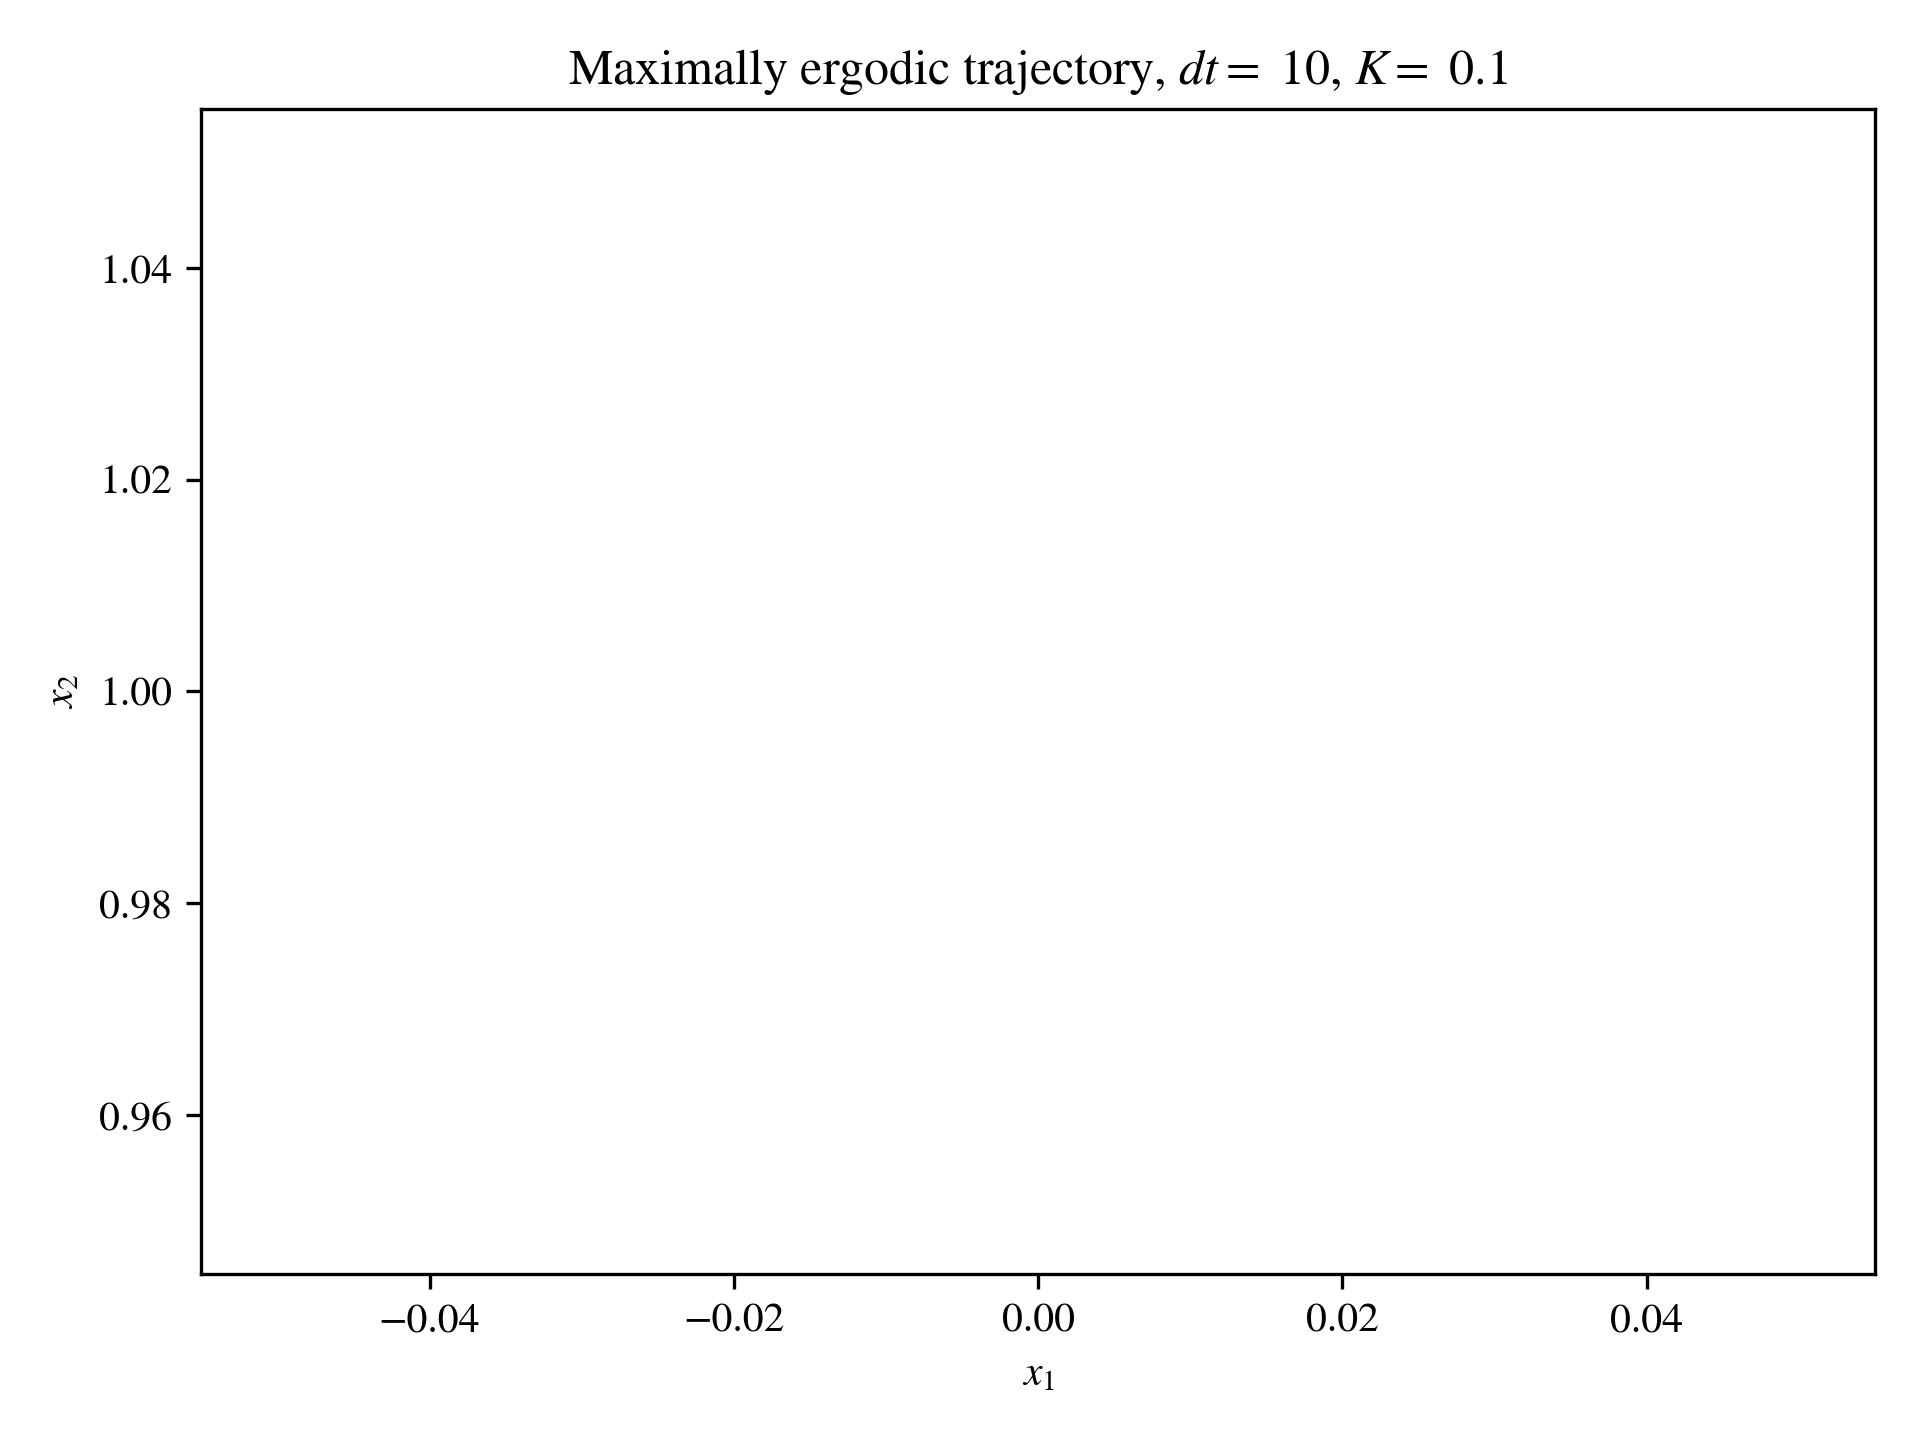
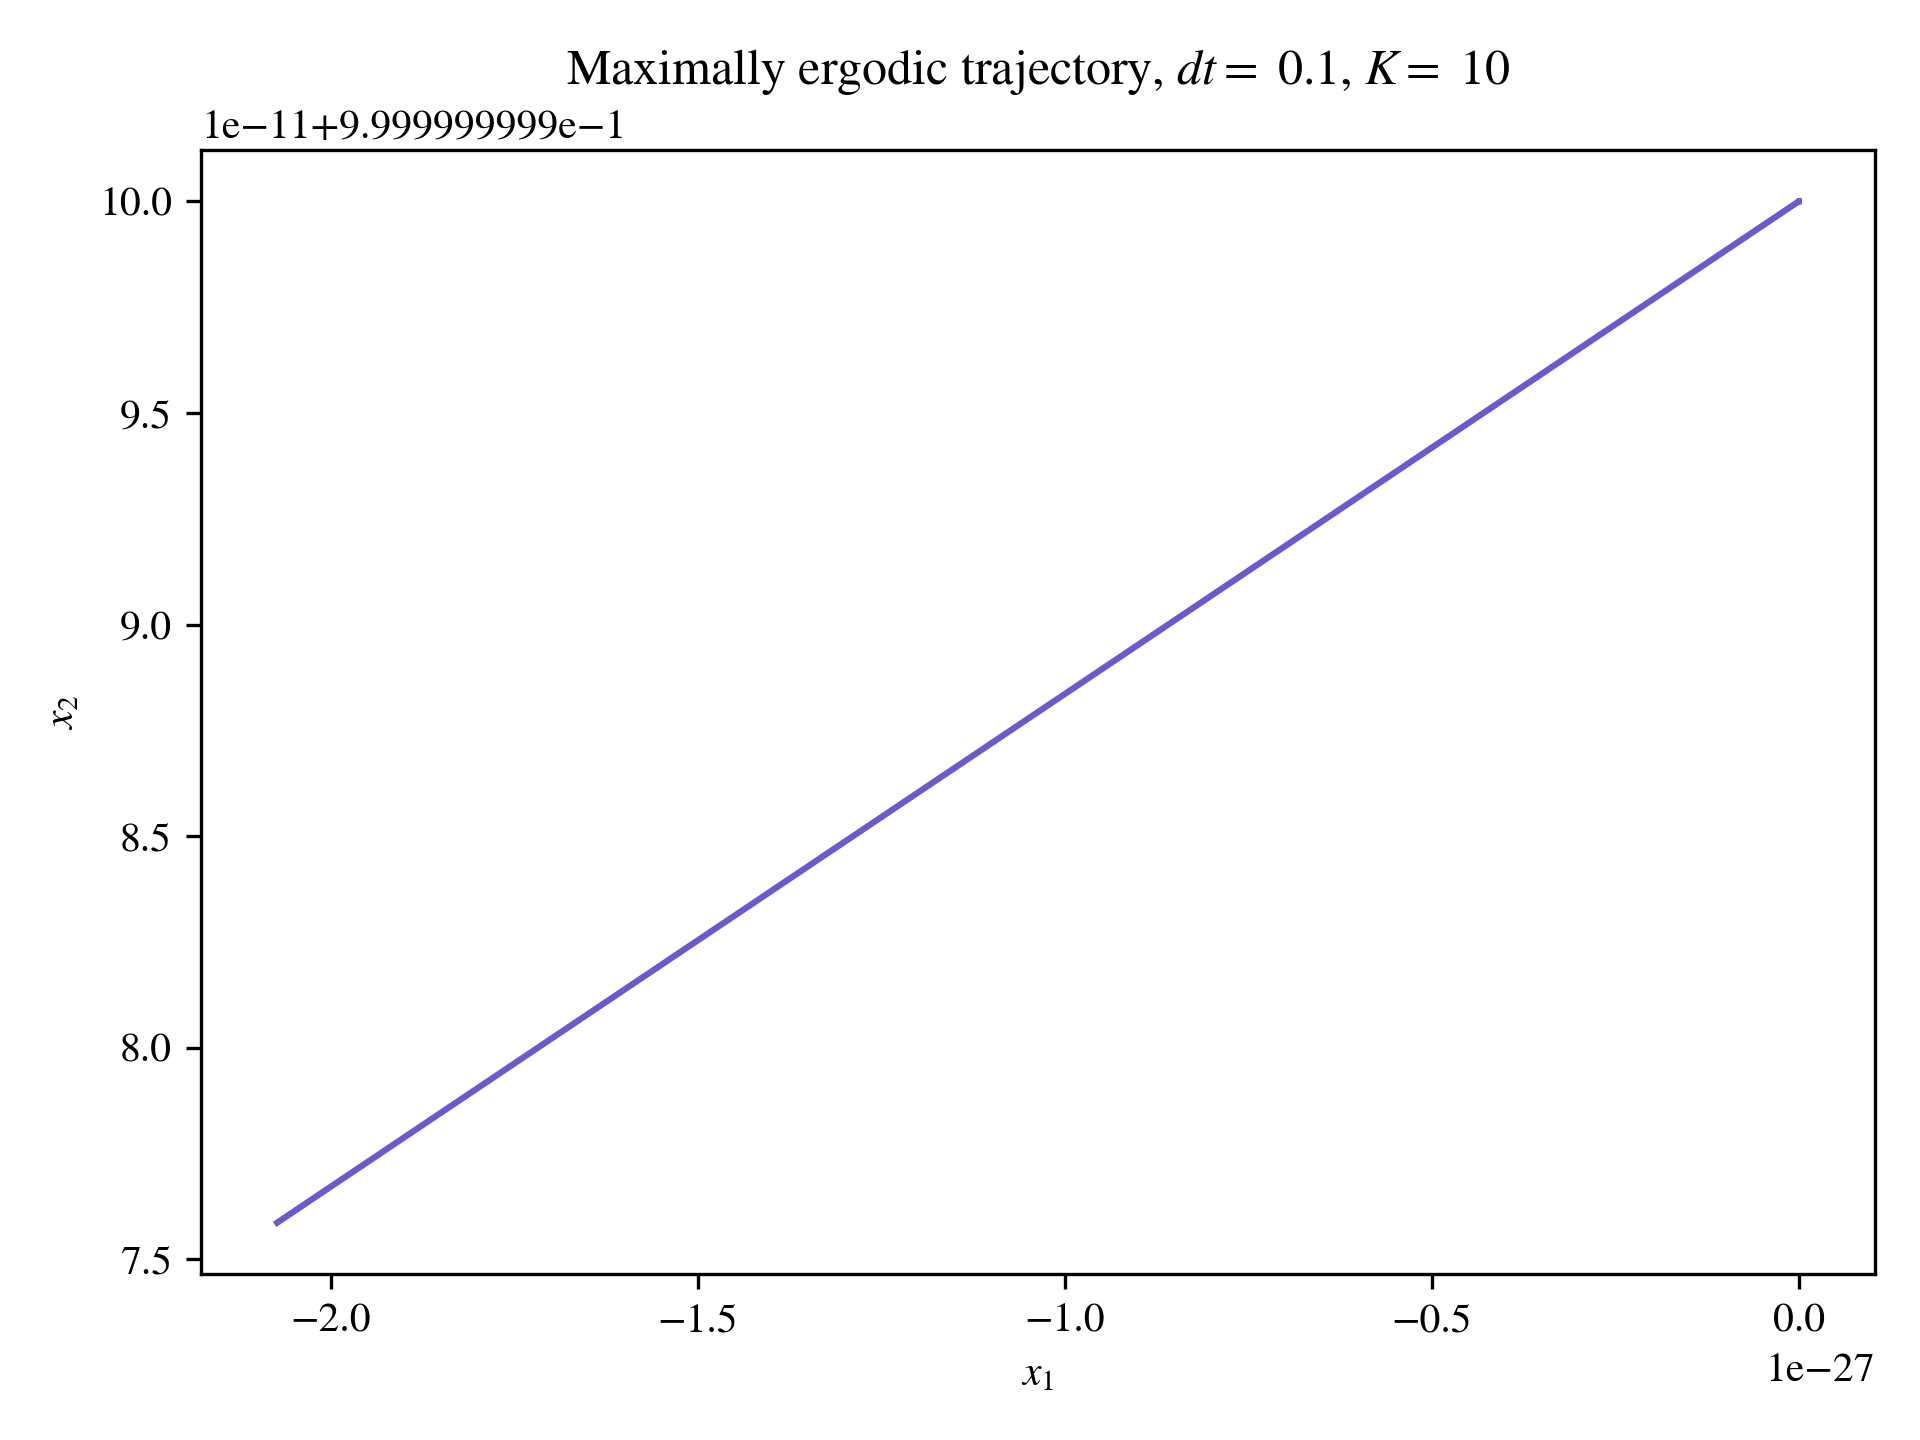
pipeline standing, converges to 0 in first iteration

diff --git a/HW5/HW5_1.py b/HW5/HW5_1.py
@@ -6,101 +6,194 @@ from scipy.integrate import dblquad
 plt.rcParams['mathtext.fontset'] = 'stix'
 plt.rcParams['font.family'] = 'STIXGeneral'
 
-def Phi(x):
-    mu = np.array([0, 0])
-    Sig = np.diag([2, 2])
-    return np.linalg.det(2*np.pi*Sig)**(-1/2) * np.exp(-1/2 * np.dot(np.dot((x-mu).T, np.linalg.inv(Sig)), (x-mu)))
+### Dynamics ###
+def dynamics(x0, u_erg):
+    x = np.zeros((n,2))
+    x[0] = x0
+    for i in range(n-1):
+        x[i+1] = x[i] + dt * u_erg[i]
+    return x
 
 
-def get_Fk(x, k, lb, ub):
-    hk = 1.0 # TODO: needed for HW5 but not HW4 ?
+### Cost Function ###
+def J(x, u):
+    sum = 0
+    for k1 in range(K):
+        for k2 in range(K):
+            k = np.array([k1, k2])
+            Lambda = (1 + np.linalg.norm(k)**2)**(-s)
+            intg_F = 0
+            for i in range(n):
+                intg_F += dt * get_Fk(x[i], k)
+            sum += Lambda * (intg_F/T - Phik_list[k1, k2]) **2
+    intg_u = 0
+    for i in range(n):
+        intg_u += dt * (u[i].T @ R @ u[i])
+    return q * sum + intg_u
+
+def DJ(x, u, zeta):
+    intg = 0
+    for i in range(n):
+        intg += dt * ((a(x, i)).T @ zeta[i,:2] + (b(u[i])).T @ zeta[i,2:])
+    return intg
+
+
+def a(x, i):
+    sum = 0
+    for k1 in range(K):
+        for k2 in range(K):
+            k = np.array([k1, k2])
+            Lambda = (1 + np.linalg.norm(k)**2)**(-s)
+            intg_F = 0
+            intg_DF = 0
+            for j in range(n):
+                intg_F += dt * get_Fk(x[j], k)
+            sum += 2 * Lambda * (intg_F/T - Phik_list[k1, k2]) * get_DFk(x[i], k)/T
+    return (q * sum).T
+
+def b(ui):
+    return (ui.T @ R).T
+
+def get_zeta(x, u):
+    A = np.array([[0, 0],[0, 0]]) # D1 f(x,u)
+    B = np.array([[1, 0],[0, 1]]) # D2 f(x,u)
+
+    zeta = np.zeros((n,4))
+    P = np.zeros((n,2,2)) # Time, Matrix
+    r = np.zeros((n,2)) # Time, Vector
+    P[n-1] = P_1
+    r[n-1] = [0, 0]
+
+    i = n-1
+    while i > 0:
+        P_dot = -(P[i] @ A) + A.T @ P[i] + P[i] @ B @ np.linalg.inv(R) @ B.T @ P[i] - Q
+        # print("P_dot=", P_dot)
+        r_dot = -(A - B @ np.linalg.inv(R) @ B.T @ P[i]).T @ r[i] - a(x, i) + P[i] @ B @ np.linalg.inv(R) @ b(u[i])
+        # print("r_dot=", r_dot)
+        P[i-1] = P[i] - dt*P_dot
+        r[i-1] = r[i] - dt*r_dot
+        
+        i -= 1
+
+    zeta[0, :2] = [0, 0]
+    for i in range(n-1):
+        zeta[i, 2:] = np.linalg.inv(R) @ B.T @ P[i] @ zeta[i, :2] - np.linalg.inv(R) @ B.T @ r[i] - np.linalg.inv(R) @ b(u[i])
+        zeta[i+1, :2] = zeta[i, :2] + dt*(A @ zeta[i, :2] + B @ zeta[i, 2:]) # A = zeros()
+    return zeta
+
+
+### Ergodicity ###
+def get_Fk(x, k):
+    hk = hk_list[k[0], k[1]]
     prod = 1.0
     for j in range(len(x)):
         prod *= np.cos(k[j] * np.pi / (ub - lb) * (x[j] - lb))
     return prod / hk
 
+def get_hk(k):
+    integrand = lambda x1, x2: (np.cos(k[0]*np.pi/(ub-lb) * (x1 - lb)) * np.cos(k[1]*np.pi/(ub-lb) * (x2 - lb)))**2
+    return (dblquad(integrand, lb, ub, lb, ub)[0])**0.5
 
-def get_Phik(k, lb, ub):
+def get_DFk(xi, k):
+    hk = hk_list[k[0], k[1]]
+    L = ub - lb
+    D1Fk = -k[0]*np.pi/(L*hk) * np.sin(k[0]*np.pi/L * (xi[0] - lb)) * np.cos(k[1]*np.pi/L * (xi[1] - lb))
+    D2Fk = -k[1]*np.pi/(L*hk) * np.cos(k[0]*np.pi/L * (xi[0] - lb)) * np.sin(k[1]*np.pi/L * (xi[1] - lb))
+    return np.array([D1Fk, D2Fk])
+
+def get_Phik(k):
     # integral over X of Phi(x)fk(x)dx
-    integrand = lambda x1, x2: get_Fk(np.array([x1, x2]), k, lb, ub) * Phi(np.array([x1, x2]))
+    integrand = lambda x1, x2: get_Fk(np.array([x1, x2]), k) * Phi(np.array([x1, x2]))
     return dblquad(integrand, lb, ub, lb, ub)[0]
 
-
-def get_ck(x, k, T, dt, i, lb, ub): 
-    intg = 0 # integral from (0,T) of fk(x(t))
-    for j in range(i):
-        intg += dt * get_Fk(x[j], k, lb, ub)
-    return 1/T * intg
+def Phi(x):
+    return np.linalg.det(2*np.pi*Sig)**(-1/2) * np.exp(-1/2 * np.dot(np.dot((x-mu).T, np.linalg.inv(Sig)), (x-mu)))
 
 
-def metric(dt, x, lb, ub, K, Phik_list, i):
-    T = (i+1) * dt
-    possib_u = np.array([[0.0,0.0],[1.0,0.0],[0.0,1.0],[-1.0,0.0],[0.0,-1.0]])
-
-    # Maximally Ergodic Trajectory Step: 
-    # Simulate next step for various choices of u, choose u with lowest ergodicity
-    eps_list = []
-    for u in possib_u:
-        x[i] = x[i-1] + dt * u
-        s = ((i + 1) + 1.0)/2.0
-        j = 0
-        eps = 0
-        for k1 in range(K):
-            for k2 in range(K):
-                k = np.array([k1, k2])
-                Phik = Phik_list[j]
-
-                ck = get_ck(x, k, T, dt, i, lb, ub)
-
-                Lambda = (1 + np.linalg.norm(k)**2)**(-s)
-
-                eps += abs(ck - Phik)**2 * Lambda
-                j += 1
-        eps_list.append(eps)
-
-    ergodic_u = possib_u[np.argmin(eps_list)]
-    print("t= " + str(round(T,1)) +  ",\tu_erg= " + str(ergodic_u) + ",\teps= " + str(eps_list))
-
-    return ergodic_u
-
-
+### Main ###
 def main():
-    
-    T = 10
-    dt = 0.1
-    n = int(T/dt) + 1
 
-    # Trajectory
+    # Trajectory: Initial trajectory no movement
     x0 = np.array([0,1])
-    x = np.zeros((n,2))
-    x[0] = x0
-
-    # Range X
-    lb, ub = -10, 10
-
-    K = 10
-    print("Computing Phik for all possible k ...")
-    Phik_list = []
-    for k1 in range(K):
-            for k2 in range(K):
-                k = np.array([k1, k2])
-                Phik_list.append(get_Phik(k, lb, ub))
-
+    x_erg = np.zeros((n,2))
+    u_erg = np.zeros((n,2))
+    for i in range(n):
+        x_erg[i] = x0
+    
     # Ergodic Trajectory
-    # TODO: should u be  bounded?
+    print("Computing maximally ergodic trajectory ...")
     # TODO: barrier funtion needed ? e.g. adapted logistic function
-    for i in range(1, n):
-        ergodic_u = metric(dt, x, lb, ub, K, Phik_list, i)
-        x[i] = x[i-1] + dt * ergodic_u
+    # Ergodicity Threshold
+    eps = 1E-3
 
+    zeta = np.zeros((n,4)) # zeta = [z0, z1, v0, v1]
+    J_array = []
+
+    i = 0
+    dj = float('inf')
+    while i==0 or dj > eps:
+        zeta = get_zeta(x_erg, u_erg)
+        print("DJ=", dj, "\tzeta[-1]=", zeta[-1])
+        
+        # Armijo
+        alpha = 0.1
+        beta = 0.5
+        gamma = 1
+        J_u = J(x_erg, u_erg)
+        J_array.append(J_u)
+        DJ_u_zeta = DJ(x_erg, u_erg, zeta)
+        while J(dynamics(x0, u_erg + gamma*zeta[:, 2:]), u_erg + gamma*zeta[:, 2:]) > J_u + alpha*gamma*DJ_u_zeta:
+            gamma *= beta
+
+        # Update u, x for all times
+        for j in range(n):
+            u_erg[j] += gamma*zeta[j, 2:]
+        x_erg = dynamics(x0, u_erg)
+
+        dj = np.abs(DJ_u_zeta)
+        print(dj)
+        i += 1
+
+    ### Plotting ###
     fig, ax = plt.subplots()
-    ax.plot(x[:,0], x[:,1], color='slateblue')
+    ax.plot(x_erg[:,0], x_erg[:,1], color='slateblue')
     ax.set_xlabel(r'$x_{1}$')
     ax.set_ylabel(r'$x_{2}$')
-    ax.set_title(r'Maximally ergodic trajectory, $dt=$ {}, $K=$ {}'.format(T, dt, K))
+    # ax.set_xlim([-2, 2])
+    # ax.set_ylim([-2, 2])
+    ax.set_title(r'Maximally ergodic trajectory, $dt=$ {}, $K=$ {}'.format(dt, K))
     fig.tight_layout()
     plt.savefig('./ME455_ActiveLearning/HW5/HW5_1_ergodic_traj.png', dpi=300)
     plt.show()
+
+
+### Global Parameters ###
+T = 10
+dt = 0.1
+n = int(T/dt) + 1
+
+mu = np.array([0, 0])
+Sig = np.diag([2, 2])
+
+# Range X
+lb, ub = -5, 5
+
+K = 10
+s = (n+1)/2.0
+
+q = 10 # np.array([[1, 0],[0,1]])
+Q = np.array([[q, 0],[0, q]])
+R = np.array([[1,0],[0,1]])
+P_1 = np.array([[0, 0],[0, 0]])
+
+print("Computing all possible h_k, Phi_k ...")
+# Get Phi_k
+Phik_list = np.zeros((K,K))
+hk_list = np.zeros((K,K))
+for k1 in range(K):
+    for k2 in range(K):
+        hk_list[k1,k2] = get_hk(np.array([k1, k2]))
+        Phik_list[k1,k2] = get_Phik(np.array([k1, k2]))
 
 
 if __name__ == "__main__":
